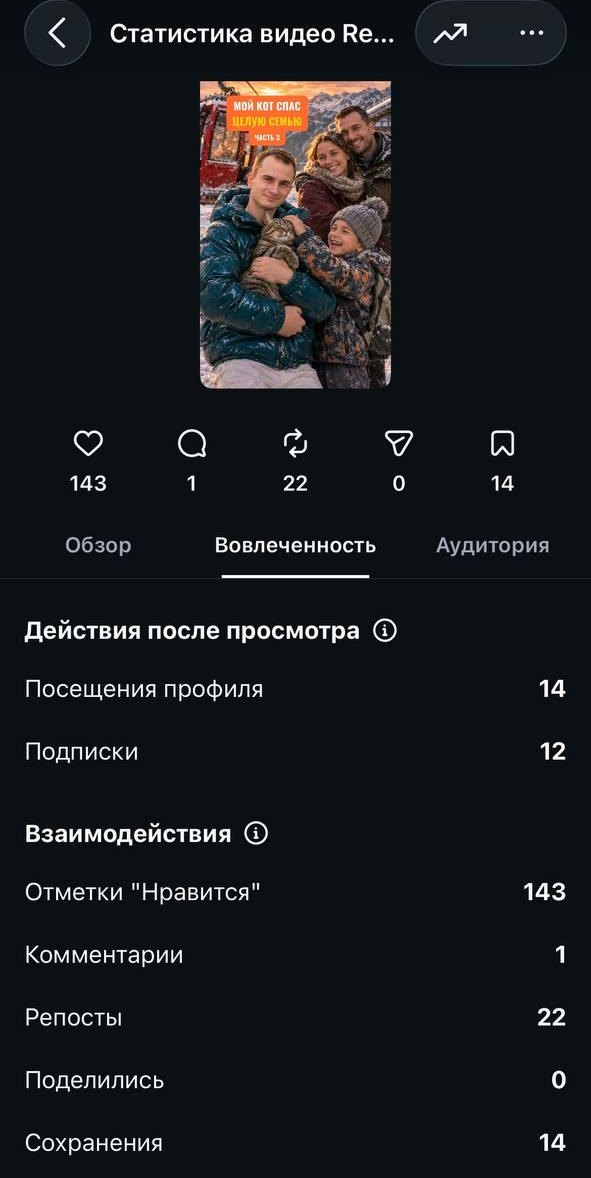
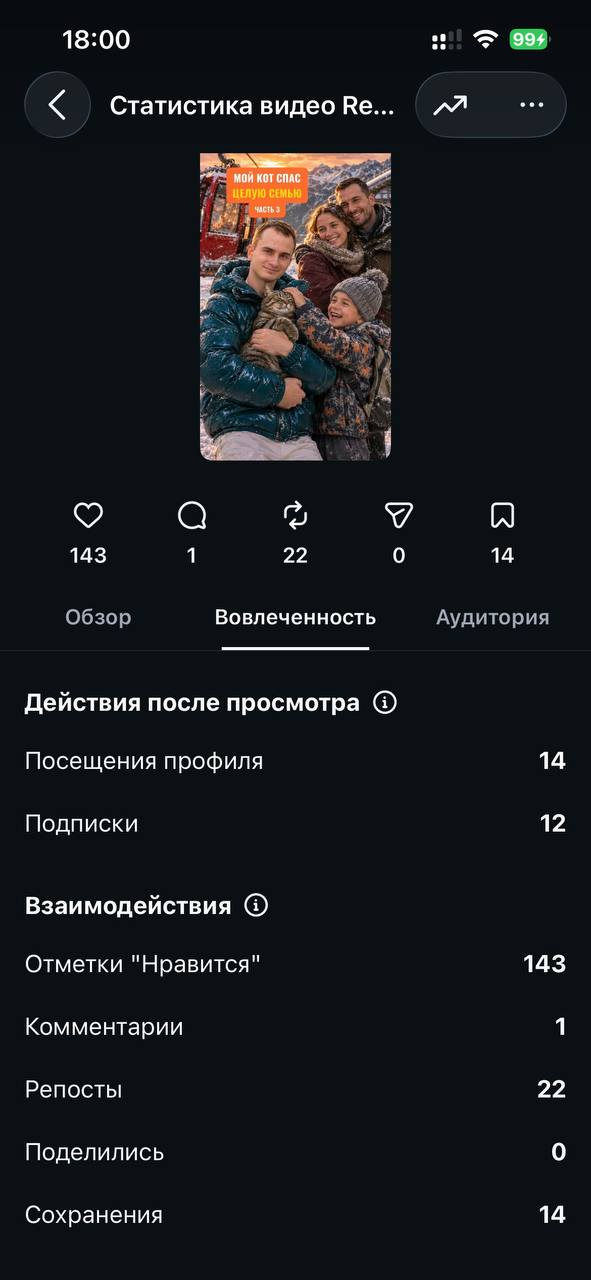
Кейс: скриншоты в рамках телефона одинакового размера

diff --git a/cases/content-factory.html b/cases/content-factory.html
@@ -175,9 +175,15 @@
   .compare dd small { display: block; font-family: var(--sans); font-size: 13px; color: var(--muted); margin-top: 6px; }
 
   /* Скриншоты */
-  .shots { display: grid; grid-template-columns: repeat(3, 1fr); gap: 24px; align-items: start; }
-  .shot figure { border-radius: 22px; overflow: hidden; border: 1px solid var(--line); background: #0b0d10; }
-  .shot figcaption { padding: 18px 2px 0; }
+  .shots { display: grid; grid-template-columns: repeat(3, 1fr); gap: 32px; align-items: start; justify-items: center; }
+  .shot { width: 100%; max-width: 270px; }
+  .shot figure {
+    position: relative; aspect-ratio: 591 / 1280; padding: 9px; border-radius: 40px;
+    background: linear-gradient(145deg, #2a2520, #14110e); border: 1px solid rgba(239, 230, 216, .18);
+    box-shadow: 0 30px 60px -20px rgba(0, 0, 0, .7), inset 0 0 0 1px rgba(0, 0, 0, .6);
+  }
+  .shot figure img { width: 100%; height: 100%; object-fit: cover; border-radius: 31px; }
+  .shot figcaption { padding: 20px 4px 0; text-align: center; }
   .shot figcaption b { display: block; font-family: var(--serif); font-weight: 400; font-size: 22px; line-height: 1.2; }
   .shot figcaption span { display: block; margin-top: 6px; font-size: 14px; color: var(--muted); }
   .note { margin-top: 26px; font-size: 13px; color: var(--dim); }
@@ -226,7 +232,7 @@
     .step { grid-template-columns: 1fr; gap: 10px; padding: 26px 0; }
     .tools { grid-column: 1; }
     .compare { grid-template-columns: 1fr; }
-    .shots { grid-template-columns: 1fr; max-width: 360px; margin: 0 auto; }
+    .shots { grid-template-columns: 1fr; gap: 44px; }
     .gains { grid-template-columns: 1fr; }
     .gain, .gain + .gain { padding: 24px 0; border-left: none; }
     .btn { width: 100%; }
@@ -361,15 +367,15 @@
     </div>
     <div class="shots">
       <div class="shot reveal">
-        <figure><img src="../img/cases/cf-dashboard.jpg" alt="Статистика аккаунта за 30 дней: 204 111 просмотров, +7 451% к прошлому периоду, +185 подписчиков" width="591" height="988" loading="lazy"></figure>
+        <figure><img src="../img/cases/cf-dashboard.jpg" alt="Статистика аккаунта за 30 дней: 204 111 просмотров, +7 451% к прошлому периоду, +185 подписчиков" width="591" height="1280" loading="lazy"></figure>
         <figcaption><b>204 111 просмотров за 30 дней</b><span>+7 451% к предыдущему периоду, +185 подписчиков</span></figcaption>
       </div>
       <div class="shot reveal d1">
-        <figure><img src="../img/cases/cf-reel-overview.jpg" alt="Статистика лучшего Reels: 29 197 просмотров, 18 235 зрителей, 12 подписок" width="591" height="1018" loading="lazy"></figure>
+        <figure><img src="../img/cases/cf-reel-overview.jpg" alt="Статистика лучшего Reels: 29 197 просмотров, 18 235 зрителей, 12 подписок" width="591" height="1280" loading="lazy"></figure>
         <figcaption><b>Лучший ролик: 29 197 просмотров</b><span>18 235 зрителей. Третья часть ролика-сериала</span></figcaption>
       </div>
       <div class="shot reveal d2">
-        <figure><img src="../img/cases/cf-reel-engagement.jpg" alt="Вовлечённость лучшего Reels: 143 лайка, 22 репоста, 14 сохранений, 12 подписок" width="591" height="1178" loading="lazy"></figure>
+        <figure><img src="../img/cases/cf-reel-engagement.jpg" alt="Вовлечённость лучшего Reels: 143 лайка, 22 репоста, 14 сохранений, 12 подписок" width="591" height="1280" loading="lazy"></figure>
         <figcaption><b>Репосты и подписки</b><span>22 репоста, 14 сохранений, 12 новых подписчиков с одного ролика</span></figcaption>
       </div>
     </div>
